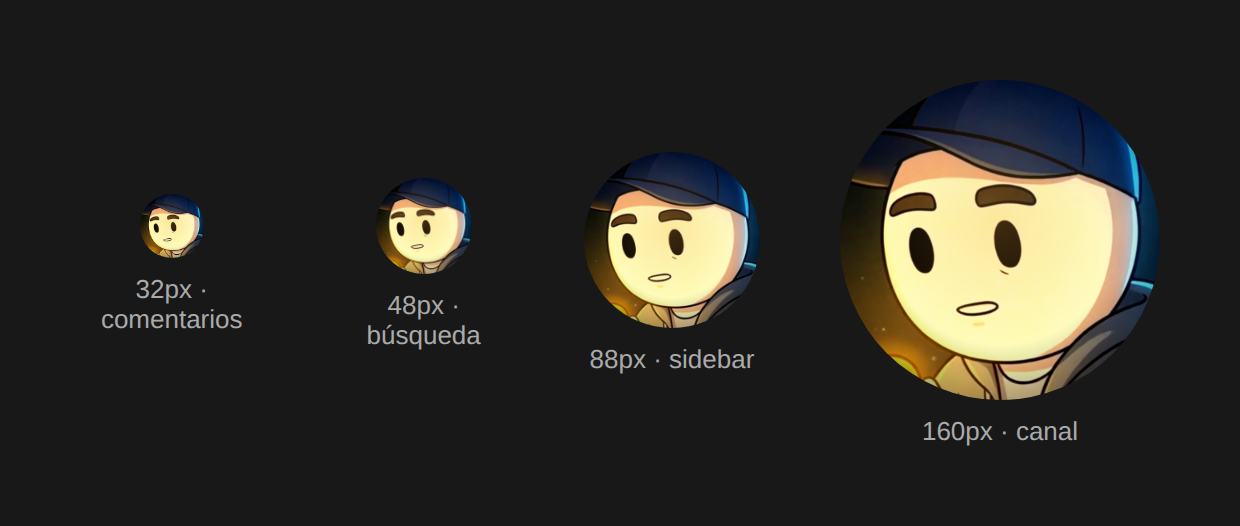
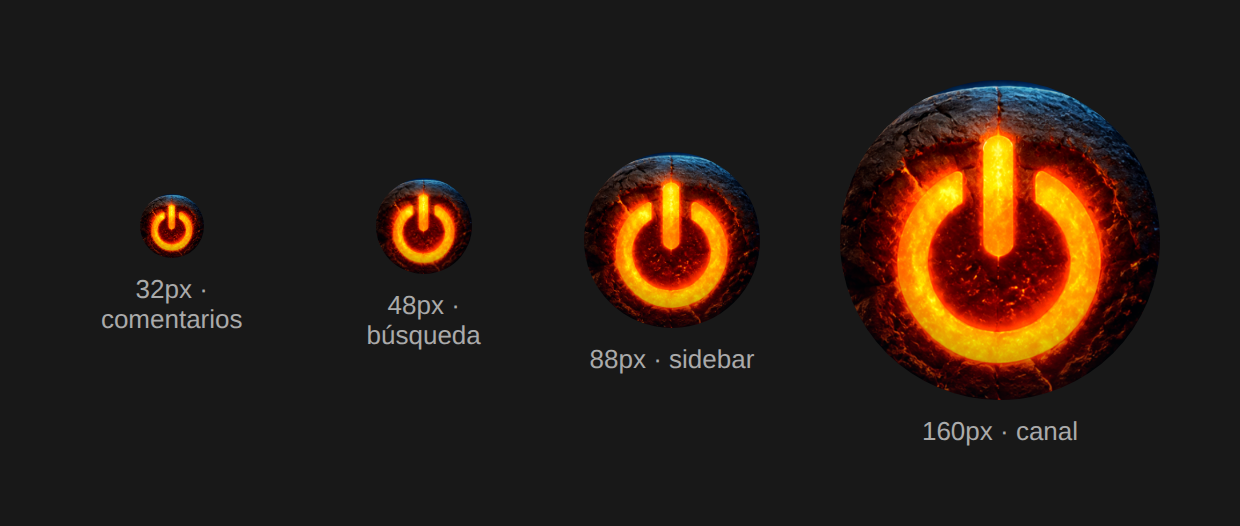
Crear identidad FACTORY SETTINGS con arte generado por IA
Descarta Mental Mechanics por ser una variacion del nombre anterior. El
nombre nuevo sale de la tesis del canal, no del nicho: estas corriendo la
configuracion de fabrica de hace 200.000 anos y nadie mando la actualizacion.

Sustituye tambien el avatar y el banner anteriores, que reutilizaban el
personaje del canal viejo. El arte nuevo se genero con IA: una cabeza humana
de piedra agrietada, de perfil, con un simbolo de encendido incandescente
donde iria el cerebro. La tipografia se compone aparte con codigo para que
el texto quede exacto y editable sin regenerar el arte.

El avatar recorta el simbolo encendido, que sobrevive al tamano de 32x40 px
en que YouTube muestra la foto de perfil. Verificado a cuatro tamanos.

Incluye paleta, descripcion del canal, palabras clave y ajustes de RPM.

Claude-Session: https://claude.ai/code/session_01HHTZtro6JcJVSNvfMrETUm

diff --git a/youtube/mindset-mechanics/MARCA-FACTORY-SETTINGS.md b/youtube/mindset-mechanics/MARCA-FACTORY-SETTINGS.md
@@ -1,0 +1,101 @@
+# FACTORY SETTINGS — identidad del canal
+
+**Cerrado el 2026-08-26.** Sustituye a `NOMBRE-Y-MARCA.md`, que proponía *Mental Mechanics* — una
+variación del nombre viejo y por tanto descartada.
+
+---
+
+## 1. El nombre
+
+```
+Factory Settings
+```
+Handle: `@factorysettings` (alternativas si estuviera tomado: `@factorysettingsyt`, `@thefactorysettings`)
+
+**Por qué.** El nombre no sale del nicho, sale de la tesis: *estás corriendo la configuración de
+fábrica de hace 200.000 años y nadie te mandó la actualización.* Los cuarenta canales del nicho se
+llaman "X Psychology". Este no suena a ninguno, se entiende sin explicación y da una imagen de marca
+obvia y potente.
+
+## 2. Eslogan
+
+```
+Your brain shipped in 200,000 BC. Nobody sent the update.
+```
+
+## 3. Descripción del canal
+
+```
+Factory Settings explains the machinery behind the things you do every day and
+quietly feel bad about.
+
+Why you forget a name ten seconds after hearing it. Why silence makes you reach for
+the radio. Why you apologize when someone else walks into you. Why you rehearse
+conversations that will never happen.
+
+None of it means something is wrong with you. Your brain shipped with settings
+written for a world that stopped existing 200,000 years ago, and nobody ever sent
+the update.
+
+Every video takes one specific behavior, names the mechanism behind it, and traces
+it back to where it came from - using real research, cited by researcher and decade.
+No motivation. No life advice. Just the explanation nobody gave you.
+
+New video every 4 days.
+
+For education and information only. Not a substitute for professional psychological
+or medical advice.
+```
+
+## 4. Palabras clave
+
+```
+psychology explained, human behavior, why we do what we do, psychology of people who,
+evolutionary psychology, cognitive psychology, behavioral science, psychology facts,
+hidden psychology, self understanding, factory settings, animated documentary
+```
+
+## 5. Ajustes que mueven el RPM
+
+| Ajuste | Valor | Por qué |
+|---|---|---|
+| País | **Estados Unidos** | Multiplicador geográfico: 67% de diferencia medida |
+| Categoría de cada video | **Educación** | $6,00 contra $4,50 de Lifestyle. Nunca Entretenimiento |
+| Idioma | Inglés (EE.UU.) | — |
+| Uso de IA | **Sí** | Obligatorio |
+| Hecho para niños | **No** | Un canal "para niños" pierde comentarios y personalización |
+
+## 6. Paleta
+
+| Uso | Color |
+|---|---|
+| Fondo | `#02060E` azul casi negro |
+| Acento / brillo | `#FF8A1F` ámbar incandescente |
+| Texto principal | `#FFF3E0` crema |
+| Luz de contorno | azul frío, contrapunto del ámbar |
+
+Regla: **un solo punto caliente por imagen**, sobre fondo casi negro. Es lo que hace que el avatar se
+lea a 32 px y que las miniaturas destaquen en un feed saturado.
+
+## 7. Archivos
+
+| Archivo | Medida | Dónde va |
+|---|---|---|
+| `marca/avatar.png` | 800 × 800 | Foto de perfil |
+| `marca/banner.png` | 2560 × 1440 | Banner del canal |
+| `marca/preview-tamanos.png` | — | Verificación a 32/48/88/160 px |
+| `marca/arte-fuente-ia.png` | 1280 × 720 | Arte original generado con IA |
+| `marca/generar-marca.mjs` | — | Regenera avatar y banner |
+
+**Cómo están hechos.** El arte se generó con IA (una cabeza humana de piedra agrietada, de perfil, con
+un símbolo de encendido incandescente donde iría el cerebro). La tipografía la monté aparte con código,
+porque los generadores de imagen destrozan el texto — así la letra queda perfecta y se puede cambiar
+sin regenerar el arte.
+
+**Avatar:** recorte cerrado al símbolo. YouTube muestra la foto de perfil a **32×40 px** en comentarios
+y feeds; un anillo naranja incandescente sobre negro es de las pocas formas que sobreviven a ese tamaño.
+Verificado en `preview-tamanos.png`.
+
+**Banner:** texto y símbolo dentro de la zona segura móvil (1546 × 423 centrada), lo único visible en
+teléfono. Incluye la promesa de cadencia, que es de las pocas cosas que mueven la suscripción en la
+visita al canal.
